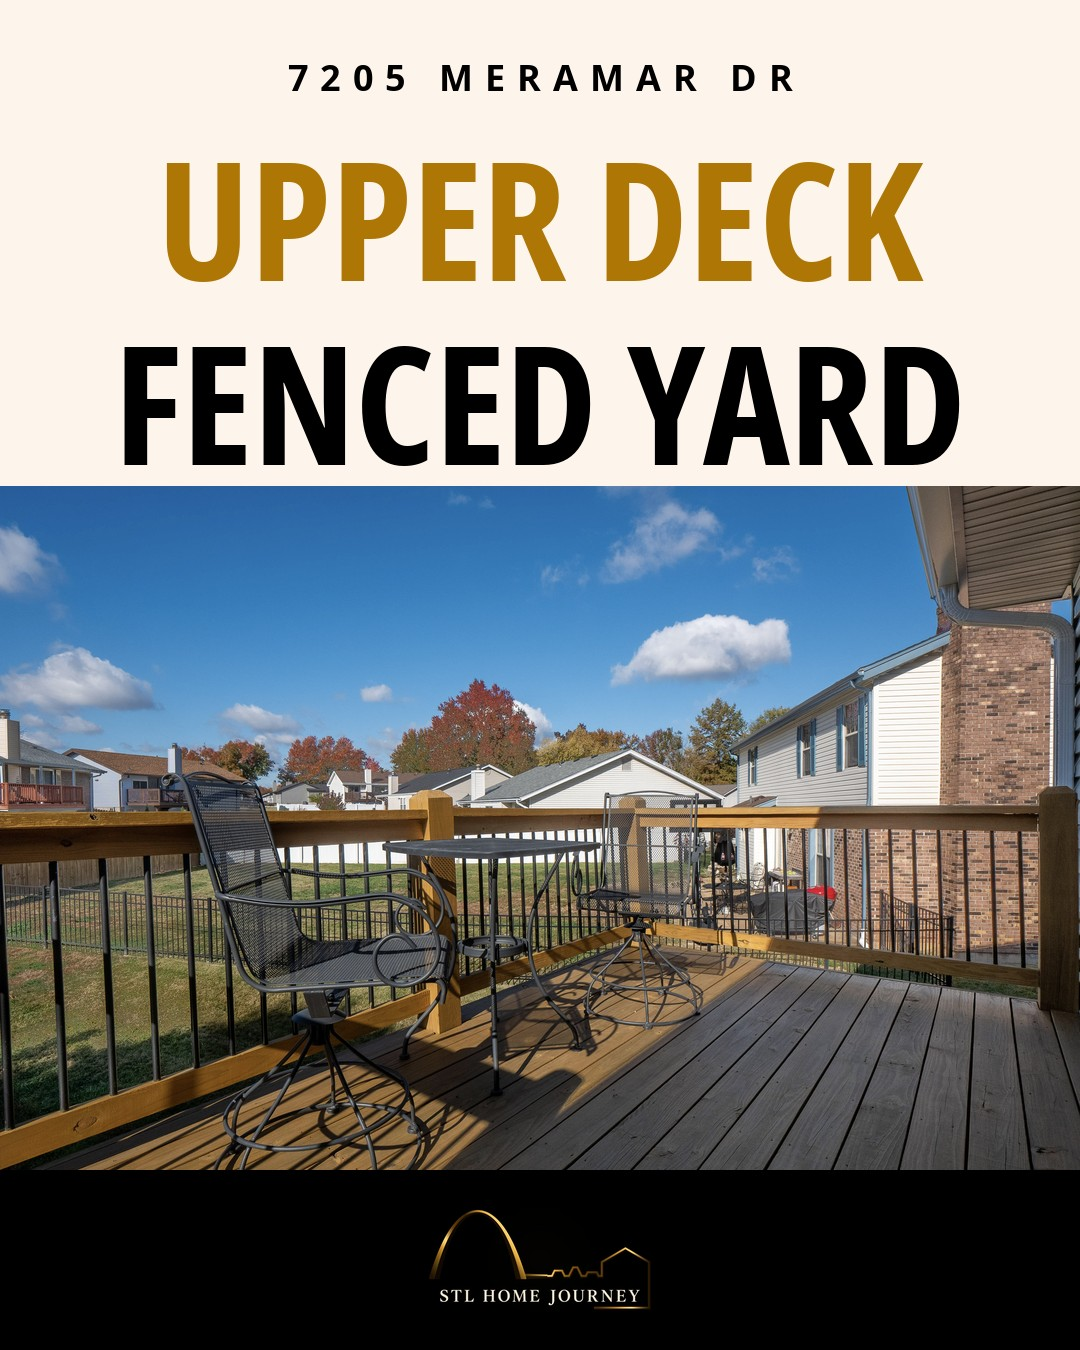
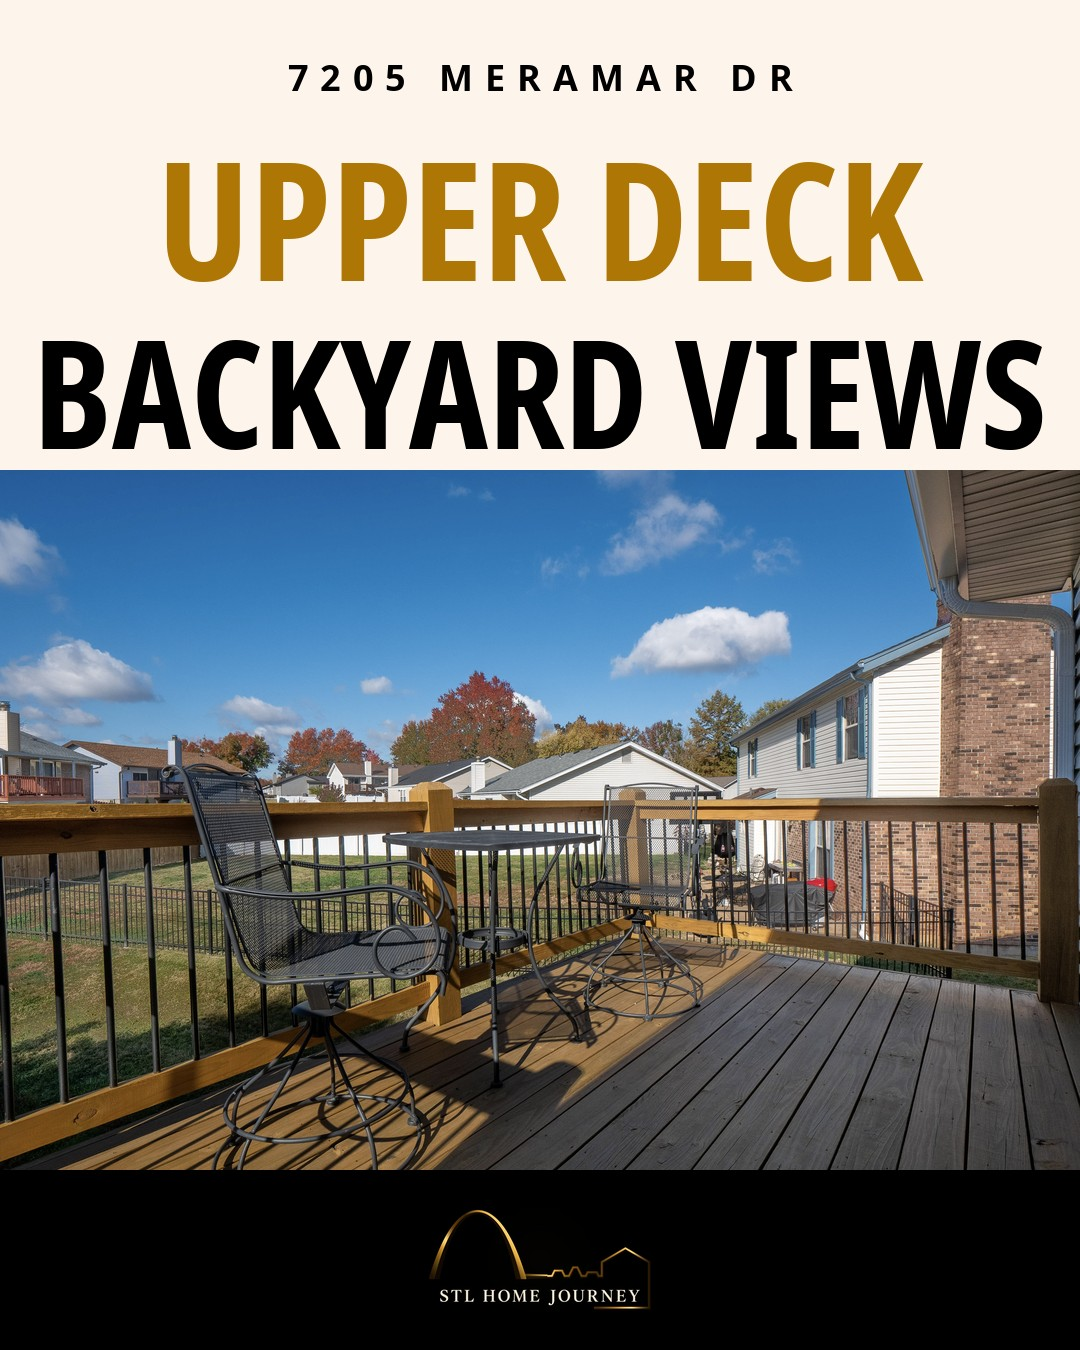
7205 Meramar: slide 7 now reads Upper Deck, Backyard Views (#209)
Claude-Session: https://claude.ai/code/session_01DUfoKiMY8U3dAUB9JT6hLE

diff --git a/listings/7205-meramar-drive-oakville-mo.html b/listings/7205-meramar-drive-oakville-mo.html
@@ -170,7 +170,7 @@ h1:where(.hero-address){margin:0;font-size:inherit;font-weight:inherit;}
     <li class="tc-slide" id="tldr-4" aria-roledescription="slide" aria-label="4 of 8"><img src="/assets/meramar-pack/04-dining-room.jpg" alt="7205 Meramar Dr. Dining room: open concept." width="1080" height="1350" loading="lazy" decoding="async"></li>
     <li class="tc-slide" id="tldr-5" aria-roledescription="slide" aria-label="5 of 8"><img src="/assets/meramar-pack/05-primary-bedroom.jpg" alt="7205 Meramar Dr. Primary bedroom: natural light." width="1080" height="1350" loading="lazy" decoding="async"></li>
     <li class="tc-slide" id="tldr-6" aria-roledescription="slide" aria-label="6 of 8"><img src="/assets/meramar-pack/06-basement.jpg" alt="7205 Meramar Dr. Finished basement: brick fireplace." width="1080" height="1350" loading="lazy" decoding="async"></li>
-    <li class="tc-slide" id="tldr-7" aria-roledescription="slide" aria-label="7 of 8"><img src="/assets/meramar-pack/07-deck.jpg" alt="7205 Meramar Dr. Upper deck: fenced yard." width="1080" height="1350" loading="lazy" decoding="async"></li>
+    <li class="tc-slide" id="tldr-7" aria-roledescription="slide" aria-label="7 of 8"><img src="/assets/meramar-pack/07-deck.jpg" alt="7205 Meramar Dr. Upper deck: backyard views." width="1080" height="1350" loading="lazy" decoding="async"></li>
     <li class="tc-slide" id="tldr-8" aria-roledescription="slide" aria-label="8 of 8"><img src="/assets/meramar-pack/08-closing.jpg" alt="Showings start November 18. Coming soon: $310,000." width="1080" height="1350" loading="lazy" decoding="async"></li>
   </ul>
   <div class="tc-nav">
